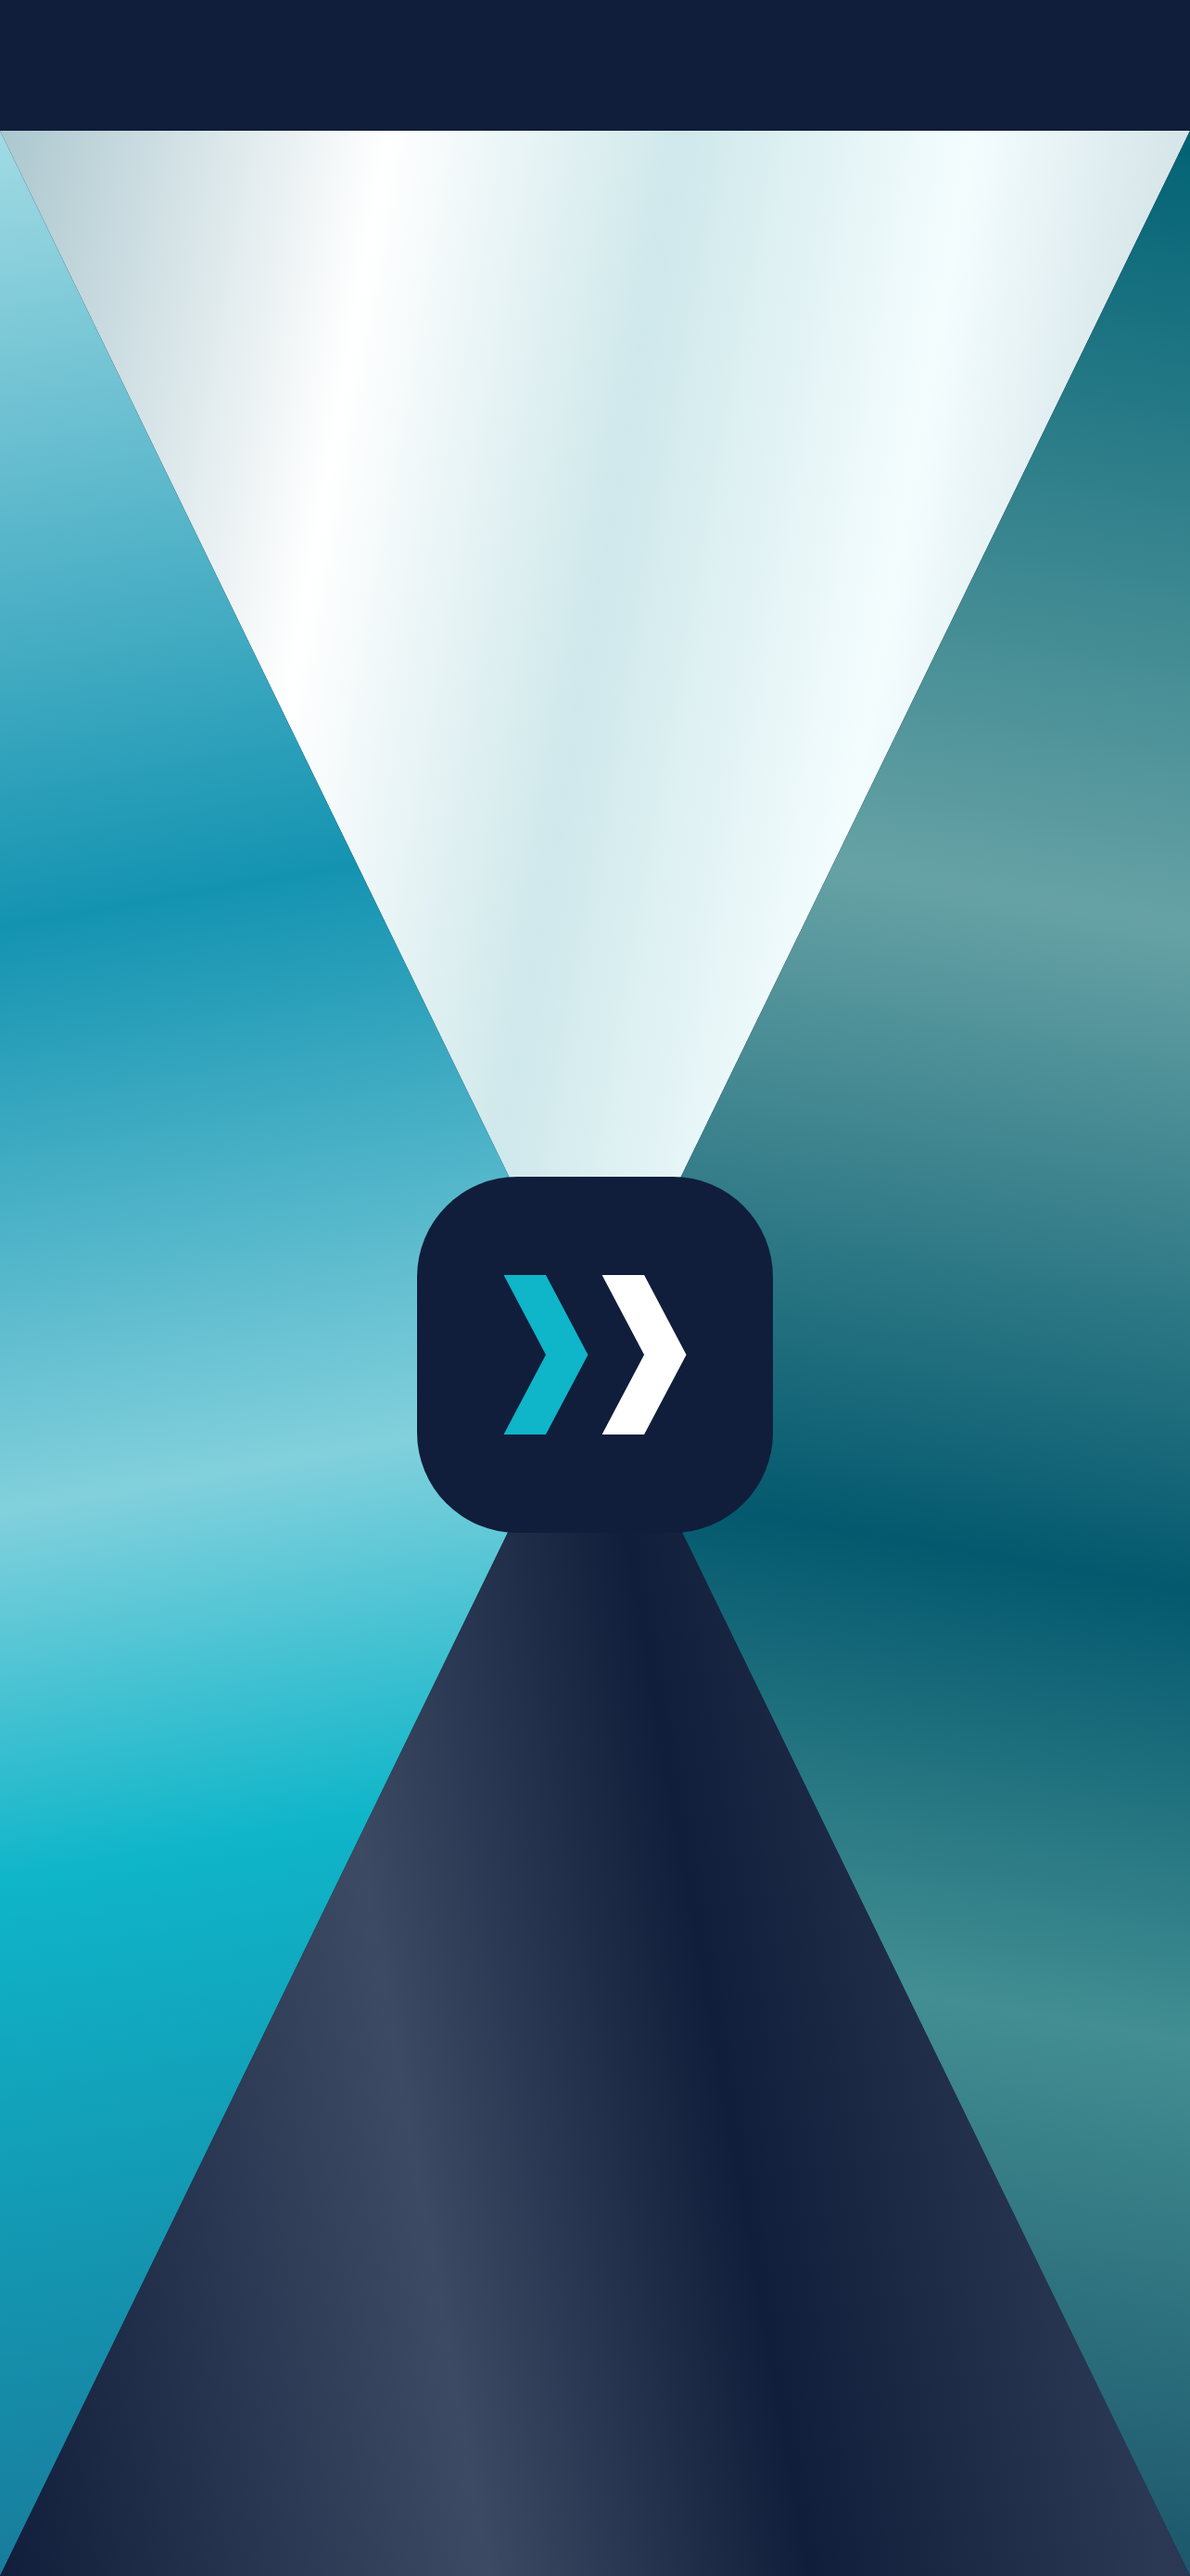
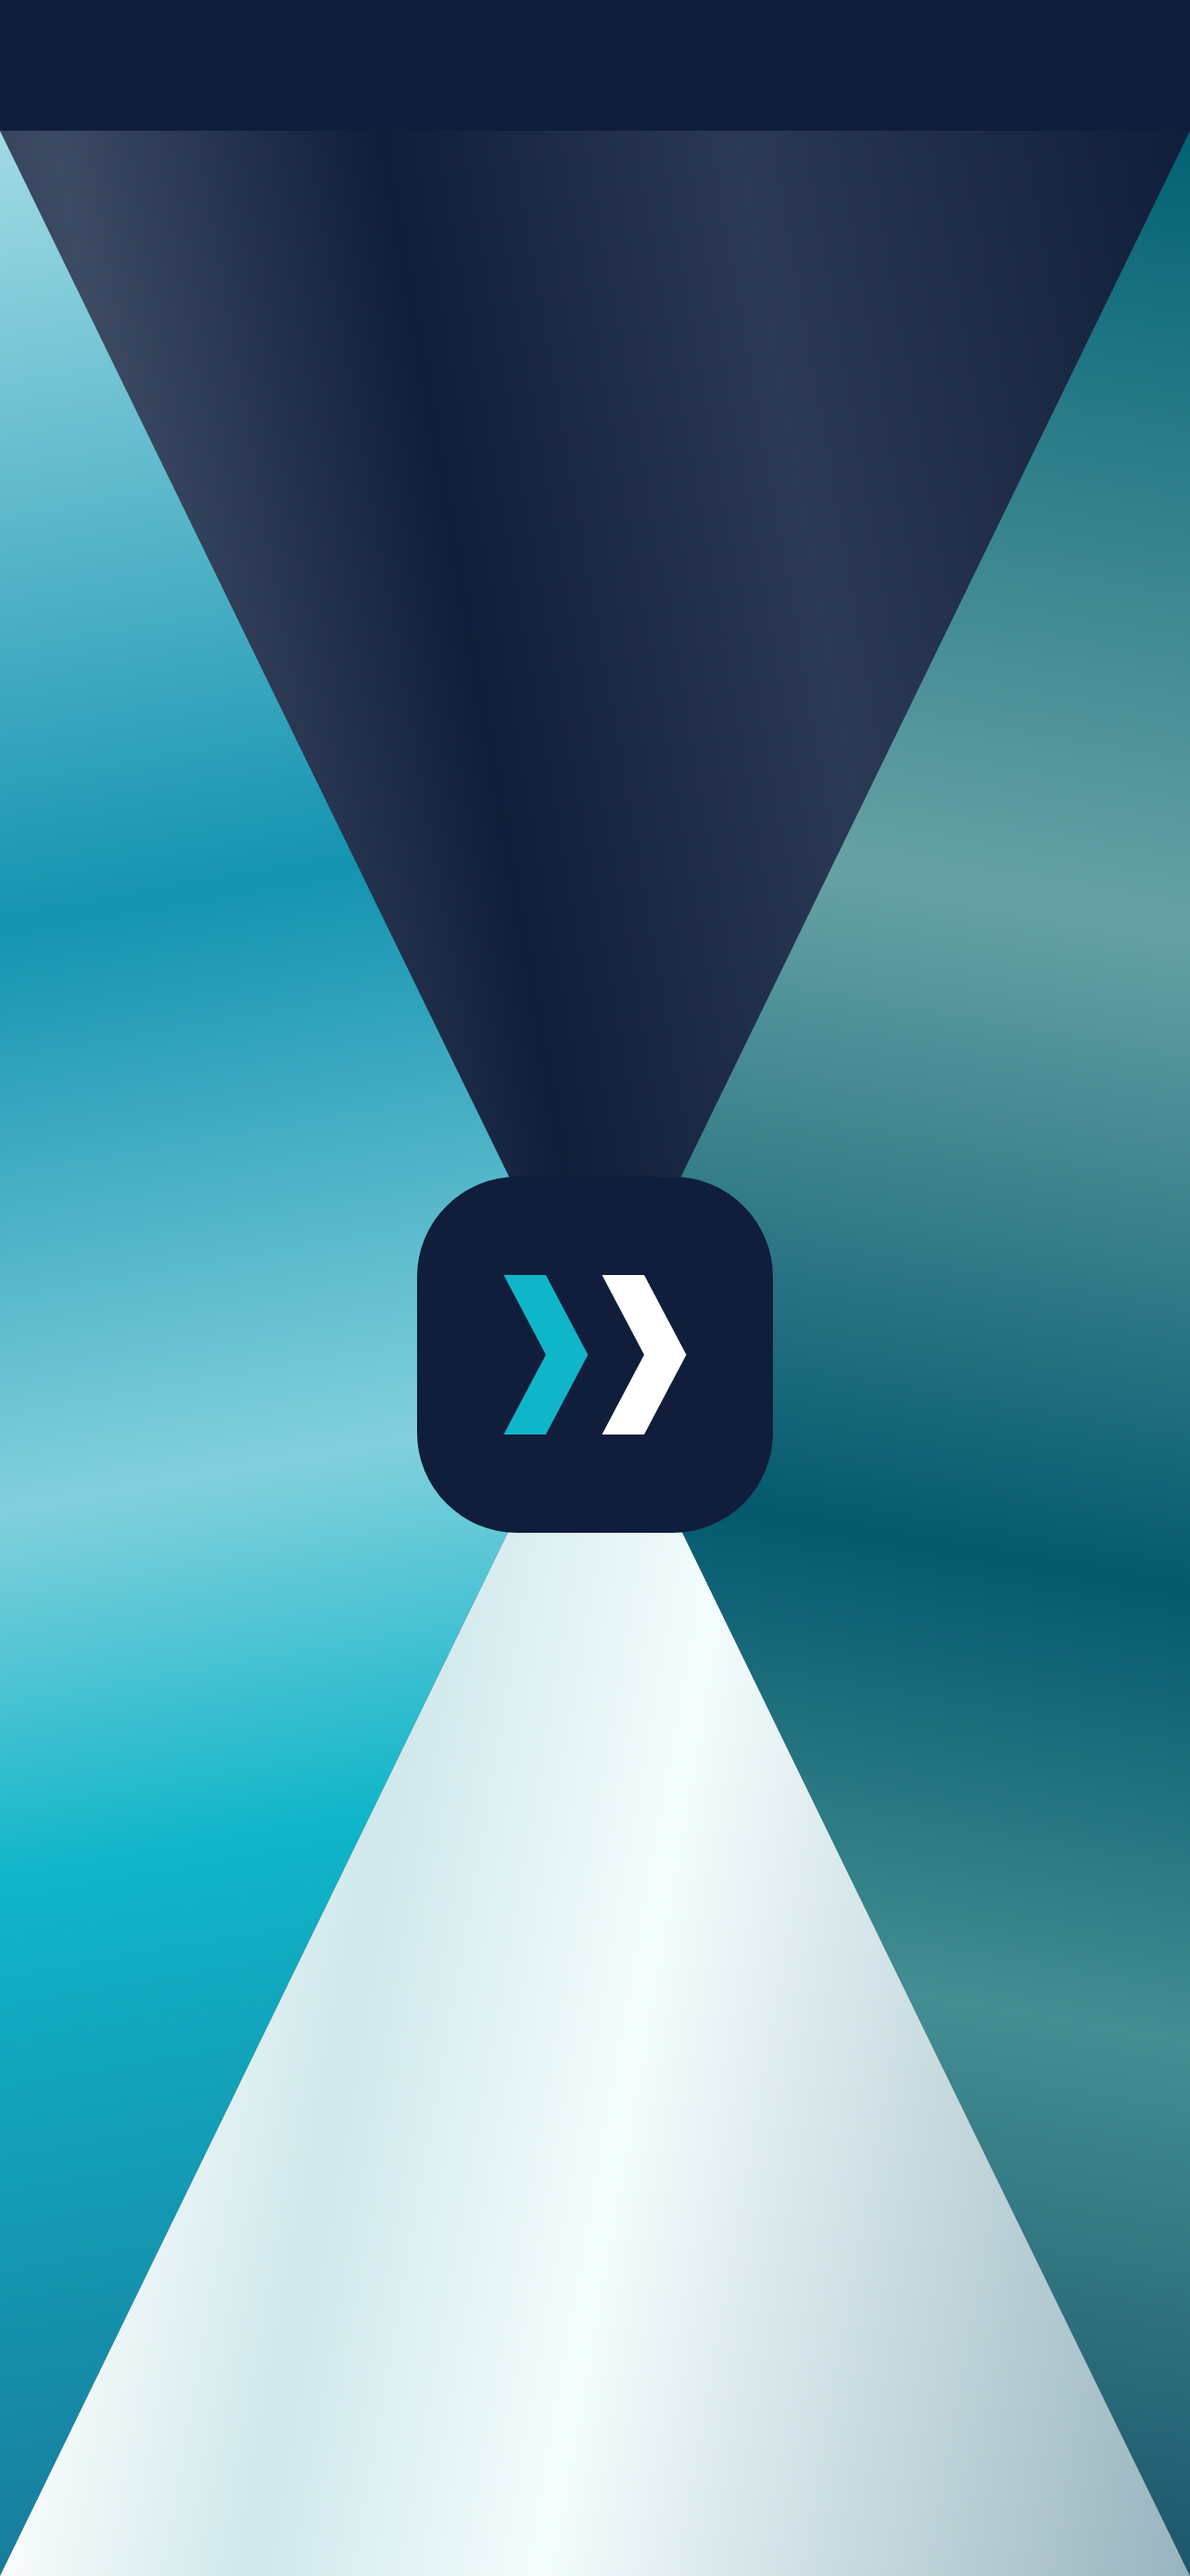
Invierte colores de carga y sus imágenes de arranque D330

diff --git a/src/splash.test.ts b/src/splash.test.ts
@@ -159,12 +159,12 @@ describe('🔴 D292 · la pantalla de carga siempre, al menos 2 segundos (Mati, 
     const splash = INDEX.slice(INDEX.indexOf('<div id="splash"'), INDEX.indexOf('<script type="module"'));
     const regla = (selector: string) => INDEX.match(new RegExp(`${selector.replace('.', '\\.')}\\s*{([^}]*)}`))?.[1] ?? '';
 
-    it('cuatro triángulos, cada uno con el recorte y el degradado de la especificación', () => {
+    it('cuatro triángulos, con los degradados superior e inferior intercambiados por D330', () => {
       const triangulos = [
-        ['t-arriba', 'polygon(0 0, 100% 0, 50% 50%)', 'linear-gradient(100deg, #abc7ce 0%, #ffffff 24%, #cfe8eb 42%, #f4fdfe 60%, #97b4be 100%)'],
+        ['t-arriba', 'polygon(0 0, 100% 0, 50% 50%)', 'linear-gradient(80deg, #101e3b 0%, #3d4a63 30%, #101e3b 50%, #2c3954 72%, #101e3b 100%)'],
         ['t-izq', 'polygon(0 0, 50% 50%, 0 100%)', 'linear-gradient(170deg, #a1dbe4 0%, #1493b1 30%, #82d0dc 52%, #0fb5c9 66%, #1b6b8f 100%)'],
         ['t-der', 'polygon(100% 0, 100% 100%, 50% 50%)', 'linear-gradient(190deg, #016274 0%, #66a2a5 30%, #04596e 55%, #428e92 72%, #0d415d 100%)'],
-        ['t-abajo', 'polygon(0 100%, 50% 50%, 100% 100%)', 'linear-gradient(80deg, #101e3b 0%, #3d4a63 30%, #101e3b 50%, #2c3954 72%, #101e3b 100%)'],
+        ['t-abajo', 'polygon(0 100%, 50% 50%, 100% 100%)', 'linear-gradient(100deg, #abc7ce 0%, #ffffff 24%, #cfe8eb 42%, #f4fdfe 60%, #97b4be 100%)'],
       ] as const;
       for (const [clase, recorte, degrade] of triangulos) {
         expect(splash, clase).toContain(`<div class="t ${clase}"></div>`);

diff --git a/index.html b/index.html
@@ -89,8 +89,8 @@
 
          D286 (revisión 6, aprobada) · lo que se ve, según
          `PANTALLA-pantalla-de-carga.md` (d03f38b4…), que manda: cuatro
-         triángulos metálicos (celeste arriba, cian a la izquierda, teal a la
-         derecha, navy abajo) que se juntan en el centro de la zona debajo de
+         triángulos metálicos (D330: navy arriba, cian a la izquierda, teal a la
+         derecha, celeste abajo) que se juntan en el centro de la zona debajo de
          la barra de estado, y el ícono navy de 128 px en el punto de
          encuentro. Sin imágenes, sin tipografías, sin texto. Los tonos de
          brillo y sombra son mezclas de la paleta, no tokens. */
@@ -127,7 +127,7 @@
       }
       #splash .t-arriba {
         clip-path: polygon(0 0, 100% 0, 50% 50%);
-        background: linear-gradient(100deg, #abc7ce 0%, #ffffff 24%, #cfe8eb 42%, #f4fdfe 60%, #97b4be 100%);
+        background: linear-gradient(80deg, #101e3b 0%, #3d4a63 30%, #101e3b 50%, #2c3954 72%, #101e3b 100%);
       }
       #splash .t-izq {
         clip-path: polygon(0 0, 50% 50%, 0 100%);
@@ -139,7 +139,7 @@
       }
       #splash .t-abajo {
         clip-path: polygon(0 100%, 50% 50%, 100% 100%);
-        background: linear-gradient(80deg, #101e3b 0%, #3d4a63 30%, #101e3b 50%, #2c3954 72%, #101e3b 100%);
+        background: linear-gradient(100deg, #abc7ce 0%, #ffffff 24%, #cfe8eb 42%, #f4fdfe 60%, #97b4be 100%);
       }
       /* El ícono: 128 × 128 fijo (igual de 375 a 430), centrado en el punto de
          encuentro. D300: aparece entero desde el primer cuadro, sin animación;

diff --git a/src/arranque/imagenesDeArranque.test.ts b/src/arranque/imagenesDeArranque.test.ts
@@ -78,7 +78,7 @@ describe('🔴 D300 · las imágenes de arranque del iPhone', () => {
 
   /**
    * 🔴 Cada imagen es la pantalla de carga de ESE tamaño (D286): la franja navy mide exactamente la barra de estado (y
-   * debajo empieza el triángulo de arriba, claro), y el ícono está en el centro de la zona: entre las flechas, navy; la
+   * debajo empieza el triángulo de arriba, oscuro por D330), y el ícono está en el centro de la zona: entre las flechas, navy; la
    * flecha izquierda, cian; la derecha, blanca. Se mide en los píxeles, no en el nombre del archivo.
    */
   for (const d of DISPOSITIVOS) {
@@ -100,9 +100,9 @@ describe('🔴 D300 · las imágenes de arranque del iPhone', () => {
           }
         }
       }
-      // Justo debajo, el triángulo de arriba: claro, no navy.
+      // Justo debajo, el triángulo de arriba: el degradado navy de D330.
       const debajo = pixel(d.ancho / 2, d.barra + 1 / d.dpr);
-      expect(Math.min(...debajo), `${archivoDe(d)}: debajo de la franja no empieza el triángulo claro`).toBeGreaterThan(150);
+      expect(Math.max(...debajo), `${archivoDe(d)}: debajo de la franja no empieza el triángulo oscuro`).toBeLessThan(110);
       // El ícono, centrado en la zona: entre las flechas, navy; la izquierda (x 46–61 del ícono), cian; la derecha, blanca.
       expect(pixel(d.ancho / 2, centroY), `${archivoDe(d)}: el centro del ícono`).toEqual([...NAVY]);
       expect(pixel(d.ancho / 2 - 10, centroY), `${archivoDe(d)}: la flecha cian`).toEqual([0x0f, 0xb5, 0xc9]);

diff --git a/vercel.ts b/vercel.ts
@@ -138,7 +138,7 @@ const headers = [
  * Artefacto desconocido: NINGUNA cabecera, igual que rewrites y headers.
  */
 const HASH_SCRIPT_IDIOMA_LANDING = "'sha256-0q+B8AZ70OFIwdyvViSs6/v+EDiwpZvDJ86Uf9Aiupc='";
-const HASH_STYLE_SPLASH_APP = "'sha256-PYHQt2b9zkdeCAoMpyTCmQ4nFIy0O+Zra11FiwiOKvY='";
+const HASH_STYLE_SPLASH_APP = "'sha256-4/8wDbLvwJO3QD+c8rfdttoUjQyw16NLER03HIN8AYI='";
 /** El `<style>` que inyecta `gsi/client` (medido el 2026-09-26, igual al de producción; re-medido el 2026-09-28). */
 const HASH_STYLE_GIS = "'sha256-RU4sU0AaS8IBGZx8XrGt/pa9A5SLA3dQszGeqT5L3Kw='";
 

diff --git a/CHANGELOG.md b/CHANGELOG.md
@@ -1,3 +1,9 @@
+# 0.250.0 · 2026-10-14
+
+- D330: pantalla de carga con el degradado azul oscuro arriba y el claro abajo; intercambia los dos degradados existentes completos, conservando logo, laterales turquesa, geometría, animación y tiempos.
+- Las once imágenes de arranque de iPhone se derivan de la misma fuente con el generador existente para conservar la continuidad visual.
+- Entrega consolidada con la guía D327 y «No volver a mostrar» D328 de 0.249.0; su runtime permanece sin cambios.
+
 # 0.249.0 · 2026-10-14
 
 - D328: primera burbuja al iniciar hasta marcar «No volver a mostrar»; cierre temporal, preferencia explícita reversible por cuenta y prioridad de avisos/invitaciones.
